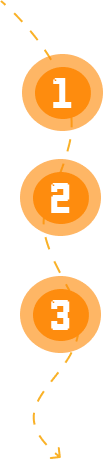
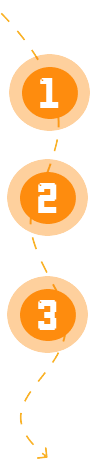
roadmap bg and text stroke

diff --git a/src/Pages/Footer.jsx b/src/Pages/Footer.jsx
@@ -9,13 +9,86 @@ import MailIcon from "@mui/icons-material/Mail";
 import ArrowRightOutlinedIcon from "@mui/icons-material/ArrowRightOutlined";
 
 export default function Footer() {
- 
-  return  (
+  return (
     <footer
       id="footer"
-      className="flex md:flex-col justify-around items-start py-12 md:gap-16"
+      className="flex flex-col justify-between items-center w-full py-8"
     >
+      <div className="flex w-full justify-between">
+        <div className="flex items-center justify-center w-1/4 md:hidden">
+          <img
+            src="public/assets/footerimg.png"
+            alt=""
+            className="w-3/5 md:w-3/5"
+          />
+        </div>
 
+        <div className="footer-div flex flex-col gap-4 w-3/4 justify-center items-start">
+          <p className="footer-title md:hidden">Join us in this adventure</p>
+          <img src="./assets/footerart.png" alt="" className="w-4/5 md:hidden"/>
+        </div>
+      </div>
+
+      <div className="w-full flex justify-between md:flex-col px-8 md:px-2">
+        <p className="footer-copyright md:hidden">
+          Copyright ©2024 Soli. All rights reserved.
+        </p>
+        <p className="footer-title hidden md:block">Join us in this adventure</p>
+        <ul className="flex gap-2 md:gap-4 w-1/2 justify-between footer-menuoptions md:flex-col">
+          <li>
+            <a href="/#Tokenomics">Tokenomics</a>
+          </li>
+          <li>
+            <a href="/#HowToBuy">How to buy</a>
+          </li>
+          <li>
+            <a href="/#Roadmap">Roadmap</a>
+          </li>
+          <div className="flex gap-2">
+            <svg
+              xmlns="http://www.w3.org/2000/svg"
+              width="20"
+              height="20"
+              viewBox="0 0 20 20"
+              fill="none"
+            >
+              <g clip-path="url(#clip0_17_838)">
+                <path
+                  d="M11.8617 8.46875L19.147 0H17.4205L11.0948 7.35313L6.04234 0H0.214844L7.85516 11.1194L0.214844 20H1.94141L8.62172 12.2348L13.9573 20H19.7848L11.8613 8.46875H11.8617ZM9.49703 11.2172L8.72281 10.11L2.56344 1.29969H5.21531L10.1858 8.41L10.9598 9.51719L17.4213 18.7594H14.7697L9.49703 11.2177V11.2172Z"
+                  fill="black"
+                />
+              </g>
+              <defs>
+                <clipPath id="clip0_17_838">
+                  <rect width="20" height="20" fill="white" />
+                </clipPath>
+              </defs>
+            </svg>
+            <svg
+              xmlns="http://www.w3.org/2000/svg"
+              width="24"
+              height="24"
+              viewBox="0 0 24 24"
+              fill="none"
+            >
+              <path
+                d="M22.0841 2.59712C21.9936 2.519 21.8836 2.46706 21.7658 2.4469C21.648 2.42674 21.5269 2.43914 21.4156 2.48275L2.41627 9.91806C2.18518 10.0085 1.98966 10.1714 1.85908 10.3825C1.7285 10.5935 1.6699 10.8412 1.69209 11.0883C1.71428 11.3355 1.81606 11.5688 1.98214 11.7532C2.14823 11.9375 2.36964 12.0631 2.61315 12.1109L7.6869 13.1074V18.7502C7.687 19.0118 7.76528 19.2674 7.91168 19.4842C8.05808 19.701 8.26593 19.8691 8.50855 19.967C8.75117 20.0648 9.01749 20.0879 9.27333 20.0333C9.52917 19.9787 9.76285 19.8489 9.9444 19.6606L12.4419 17.0702L16.34 20.4874C16.578 20.698 16.8847 20.8144 17.2025 20.8146C17.3413 20.8143 17.4792 20.7925 17.6113 20.7499C17.8278 20.6814 18.0226 20.5573 18.1763 20.39C18.3299 20.2227 18.437 20.0181 18.4869 19.7965L22.295 3.24118C22.3218 3.1248 22.3163 3.00331 22.2791 2.88982C22.242 2.77632 22.1745 2.67512 22.0841 2.59712ZM2.81658 11.0037C2.81299 10.994 2.81299 10.9834 2.81658 10.9737C2.82082 10.9704 2.82557 10.9679 2.83065 10.9662L17.8035 5.10493L8.11909 12.0424L2.83065 11.0074L2.81658 11.0037ZM9.1344 18.8787C9.10856 18.9055 9.07532 18.924 9.03892 18.9319C9.00252 18.9397 8.96461 18.9365 8.93002 18.9228C8.89542 18.909 8.86571 18.8852 8.84468 18.8545C8.82364 18.8238 8.81223 18.7875 8.8119 18.7502V13.8856L11.5953 16.3231L9.1344 18.8787ZM17.391 19.5424C17.384 19.5741 17.3687 19.6034 17.3466 19.6271C17.3245 19.6509 17.2965 19.6683 17.2653 19.6774C17.2336 19.6886 17.1994 19.691 17.1664 19.6844C17.1335 19.6778 17.1029 19.6624 17.0778 19.6399L9.15315 12.6884L20.9056 4.26587L17.391 19.5424Z"
+                fill="black"
+              />
+            </svg>
+          </div>
+        </ul>
+        <div className="flex items-center justify-start w-full">
+          <img
+            src="public/assets/footerimg.png"
+            alt=""
+            className="w-1/2"
+          />
+        </div>
+        <p className="footer-copyright hidden md:block">
+          Copyright ©2024 Soli. All rights reserved.
+        </p>
+      </div>
     </footer>
   );
 }

diff --git a/src/App.scss b/src/App.scss
@@ -172,6 +172,7 @@
     @media (max-width: 867px) {
       -webkit-text-stroke-width: 5;
       font-size: 40px;
+      @include stroke(5, #fff);
       letter-spacing: 1.6px;
     }
   }
@@ -224,6 +225,7 @@
     @media (max-width: 867px) {
       font-size: 15px;
       letter-spacing: 0.64px;
+      @include stroke(1, #fff);
     }
   }
   .tokenomics-contact-div {
@@ -248,6 +250,7 @@
       font-size: 18px;
       line-height: 31px;
       letter-spacing: 0.18px;
+      @include stroke(1, #fff);
     }
   }
   .tokenomics-contact-id {
@@ -317,6 +320,8 @@
       -webkit-text-stroke-width: 5;
       font-size: 40px;
       letter-spacing: 1.6px;
+      @include stroke(5, #fff);
+      text-align: center;
     }
   }
   .howtobuytext {
@@ -357,7 +362,6 @@
   .roadmap-title {
     color: #000;
     @include stroke(9, #fff);
-
     font-family: light_pixel_7;
     font-size: 70px;
     font-style: normal;
@@ -367,6 +371,7 @@
     @media (max-width: 867px) {
       font-size: 40px;
       letter-spacing: 1.6px;
+      @include stroke(5, #fff);
     }
   }
   .roadmap-description {
@@ -430,5 +435,43 @@
     position: absolute;
     left: 0%;
     top: 65%;
+  }
+}
+#footer {
+  .footer-title {
+    color: #000;
+    @include stroke(10, #fff);
+    font-family: light_pixel_7;
+    font-size: 47px;
+    font-style: normal;
+    font-weight: 400;
+    line-height: normal;
+    letter-spacing: 1.88px;
+    @media (max-width: 867px) {
+      @include stroke(5, #fff);
+      font-size: 40px;
+      line-height: 62px;
+      letter-spacing: 1.6px;
+    }
+  }
+  .footer-copyright {
+    color: rgba(176, 176, 176, 0.68);
+    font-family: "Noto Sans";
+    font-size: 22px;
+    font-style: normal;
+    font-weight: 200;
+    line-height: normal;
+    @media (max-width: 867px) {
+      font-size: 18px;
+      text-align: center;
+    }
+  }
+  .footer-menuoptions {
+    color: #efefef;
+    font-family: "Noto Sans";
+    font-size: 22px;
+    font-style: normal;
+    font-weight: 400;
+    line-height: normal;
   }
 }
